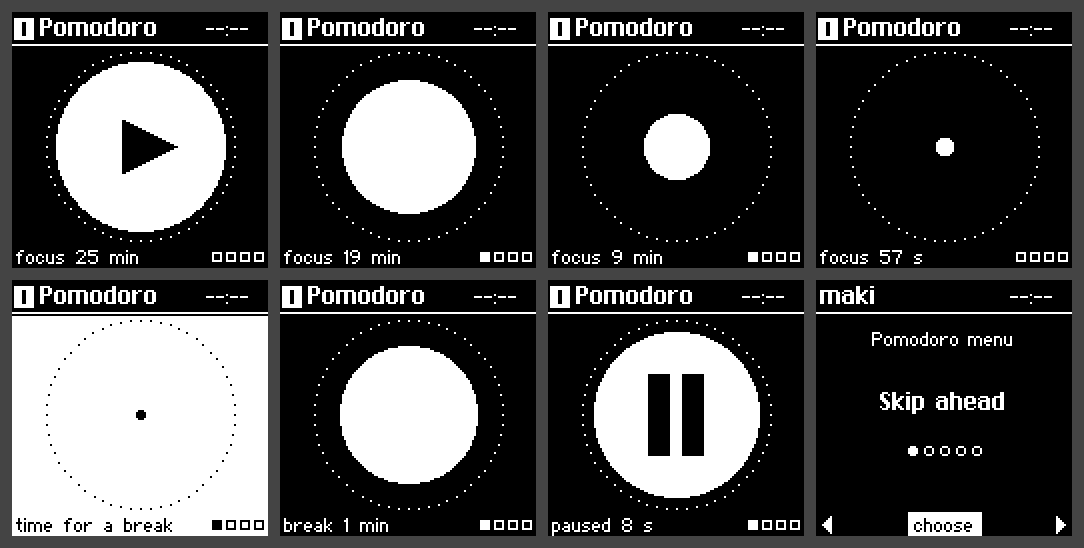
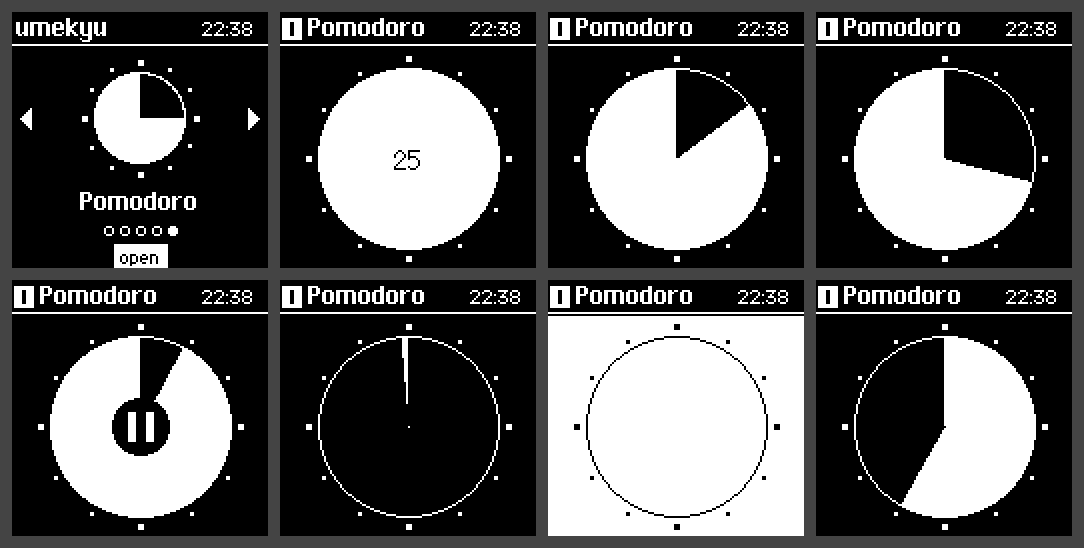
Docs: the pie Pomodoro, names, the clock and resting; no local paths
The README's Pomodoro strip is the pie now (ready, emptying, paused,
flashing, filling back up), and it says each maki names itself and
rests as a clock. ARCHITECTURE.md covers the bar, the name and resting;
DEVELOPMENT.md the clock and screensaver demo flags.

The fork, maki desktop and the store are public: the docs stop calling
them private, and stop pointing at paths on one machine (the setup
steps clone without --reference and install the toolchain with
cargo xtask install-toolkit).

Claude-Session: https://claude.ai/code/session_01KrrQLcb6MfwT6Kc7SresSY

diff --git a/DEVELOPMENT.md b/DEVELOPMENT.md
@@ -7,9 +7,9 @@ on 2026-09-25 on Fedora 44 with Rust 1.96.0.
 
 ```
 maki/
-├── xous-core/          our fork: KaraZajac/maki-firmware (private), branch `maki`         (gitignored clone)
-├── desktop/            the desktop app: KaraZajac/maki-desktop (private)                 (gitignored clone)
-├── apps/               the maki store: KaraZajac/maki-apps (private)                     (gitignored clone)
+├── xous-core/          our fork: KaraZajac/maki-firmware, branch `maki`                   (gitignored clone)
+├── desktop/            the desktop app: KaraZajac/maki-desktop                           (gitignored clone)
+├── apps/               the maki store: KaraZajac/maki-apps                               (gitignored clone)
 ├── tools/baomulator/   zst123/dc34_baomulator, full-system badge emulator            (gitignored clone)
 ├── patches/baomulator/ our changes to the emulator, applied on top of the clone
 ├── scripts/emu.sh      build → emulate → PNG screenshots, in one command
@@ -19,10 +19,9 @@ maki/
 ## One-time setup
 
 ```sh
-# firmware source: our private fork. --reference reuses BAOSEC's objects so it's quick;
-# drop those two flags on a machine without ~/Projects/BAOSEC.
-git clone --reference ~/Projects/BAOSEC/xous-core --dissociate --branch maki \
-    https://github.com/KaraZajac/maki-firmware.git xous-core
+# firmware source: our fork, whole (the build needs upstream's tags). With a clone of
+# xous-core already on the machine, `--reference PATH --dissociate` saves the download.
+git clone --branch maki https://github.com/KaraZajac/maki-firmware.git xous-core
 git -C xous-core remote add upstream https://github.com/betrusted-io/xous-core.git
 git -C xous-core fetch upstream --tags
 
@@ -35,18 +34,19 @@ git clone https://github.com/KaraZajac/maki-desktop.git desktop
 git clone https://github.com/KaraZajac/maki-apps.git apps
 ```
 
-The Xous toolchain (`riscv32imac-unknown-xous-elf`) must match your `rustc` exactly;
-see `~/Projects/BAOSEC/SETUP.md`. The build stamps its version from upstream's git tags
+The Xous toolchain (`riscv32imac-unknown-xous-elf`) must match your `rustc` exactly:
+`cargo xtask install-toolkit`, in `xous-core`, installs the betrusted-io/rust release that
+does (after a `rustup update`, run it again). The build stamps its version from upstream's git tags
 and fails without them, which is why the fork is its own repo rather than a folder in
 this one.
 
 ## The fork
 
-`KaraZajac/maki-firmware` is private, holds upstream's full history, and has two
-branches: `dev`, an untouched mirror of upstream `dev`, and `maki`, where our work
-goes. **GitHub Actions is switched off on it**: upstream's workflows would otherwise run
-on every push (two of them trigger on any branch) and spend private-repo minutes. Turn
-it back on deliberately if we want our own CI.
+`KaraZajac/maki-firmware` holds upstream's full history and has two branches: `dev`, an
+untouched mirror of upstream `dev`, and `maki`, where our work goes. **GitHub Actions is
+switched off on it**: upstream's workflows would otherwise run on every push (two of them
+trigger on any branch), building upstream's targets rather than ours. Turn it back on
+deliberately if we want our own CI.
 
 Syncing with upstream:
 
@@ -139,6 +139,13 @@ compiled in unless set, so rebuild without them before flashing:
   Sensors from the store ("maki store" on the install screen) and Tally sideloaded, then hands
   over the revocation list, which revokes Tally. It logs `demo store ...` lines, among them
   Tally refused when it's sent again (`the maki store revoked it`).
+- `MAKI_DEMO_CLOCK=1`: maki-link sets maki's clock at boot, as maki desktop would (Sunday 27
+  September 2026, 22:38 at UTC-4), and calls it verified: the bar shows 22:38, and the
+  screensaver has a time to show.
+- `MAKI_DEMO_SAVER=1`: the screensaver, which the demos otherwise leave out (the emulator's clock
+  runs far ahead while everything waits, so a minute goes by between scripted presses and each
+  would only wake the screen). With `MAKI_DEMO_CLOCK`, the welcome screen gives way to 22:38 a
+  moment after it appears, and a press brings it back (the launcher logs `resting: the clock`).
 - `MAKI_DEMO_NATIVE=1`: once maki has its PIN and phrase, maki-link installs the SDK's Hello
   Native (Hello built as a native app, from `libs/maki-native/tests/fixtures`). Opened, it runs
   in a process of its own, and the app host logs `running in PID N, confined`.
@@ -344,9 +351,9 @@ rebuilds every app from its source and checks it with `maki reproduce`; `scripts
 CATALOGUE.key DAYS` stamps each app's newest bundle, signs the revocation list again if
 `revocations.txt` changed, and signs a new index, whose version is the hour (UTC, YYYYMMDDHH) so
 it always goes up. Its apps are Pomodoro, Dice, Tally, Sensors and SSH; it's signed with the
-development keys, for ten years, as the development store is. While the repository is private,
-maki desktop reads it with a GitHub token: `MAKI_STORE_TOKEN=$(gh auth token) npm --prefix
-desktop run dev`. Its README says how an app gets in.
+development keys, for ten years, as the development store is. maki desktop reads it straight
+from GitHub; a store in a private repository needs a token, `MAKI_STORE_TOKEN=$(gh auth token)
+npm --prefix desktop run dev`. Its README says how an app gets in.
 
 **The development store.** Until the real store opens, the firmware and maki desktop both start
 from the development store's root: `xous-core/libs/maki-store/dev-store`, made by its `make.sh`

diff --git a/README.md b/README.md
@@ -15,7 +15,9 @@ for your keys.
 > from the maki store ([maki-apps](https://github.com/KaraZajac/maki-apps): reviewed, and rebuilt
 > from their source), after maki shows you what they are and who signed them, and run below maki's
 > own bar. The desktop side is tested against a stand-in for maki that runs maki's own code; the
-> screens below are maki's firmware in the emulator. Nothing runs on a badge yet.
+> screens below are maki's firmware in the emulator. Each maki names itself the first time it
+> starts, after a maki roll (natto, uni, umekyu…); its bar shows the time, and after a minute
+> untouched it rests as a clock the size of its screen. Nothing runs on a badge yet.
 > [ARCHITECTURE.md](./ARCHITECTURE.md) is the plan, [RESEARCH.md](./RESEARCH.md) the background,
 > [DEVELOPMENT.md](./DEVELOPMENT.md) the build loop.
 
@@ -23,7 +25,7 @@ for your keys.
 
 ![maki's app screens in the emulator: the install screen for Dice, a sideloaded example app (its name, version and ID); Dice running below maki's bar, which marks it as sideloaded; its menu, on App info; and App info's pages: the app, where it's from, its developer's key, whether its data is in the backup (with "leave it out"), and Remove](docs/apps.png)
 
-![Pomodoro, a native app, on maki's firmware in the emulator: before a focus, a triangle cut from the whole circle (focus 25 min); the circle shrinking as the focus runs (19 min, 9 min) down to a dot (57 s); the screen flashing when it's over (time for a break); the dot grown back into the circle as the break runs (break 1 min); paused, two bars cut from the circle; and its menu, Skip ahead](docs/pomodoro.png)
+![Pomodoro, a native app, on maki's firmware in the emulator: its icon on the home screen of a maki named umekyu, the time at the top right; ready, a full pie with the minutes to focus (25); the pie emptying clockwise like a clock's hand as the focus runs; paused, two bars in a dark disc at the centre; the last sliver of the focus; the screen flashing when it's over; and the pie filling back up as the break runs](docs/pomodoro.png)
 
 ![maki desktop's Apps page: maki's room for apps as a bar (131 KiB of 2 MiB, room for 29 more apps), a segment each for Pomodoro, SSH and Dice; the three installed, from the maki store, Pomodoro marked native; and the maki store's apps in a grid by category, fetched from KaraZajac/maki-apps](docs/desktop.png)
 
@@ -56,8 +58,9 @@ Planned apps:
   permission, an app can ask you things on maki's own screen, have secrets of its own from your
   phrase, type into your computer, and talk to software on it. Native apps too, machine code
   in a process of its own that maki's kernel confines. An SDK with a simulator and example apps,
-  and the maki store, reviewed and rebuilt from source, in maki desktop: Pomodoro (a focus timer
-  whose circle shrinks while you work), Dice, Tally, Sensors and SSH so far
+  and the maki store, reviewed and rebuilt from source, in maki desktop: Pomodoro (a focus timer,
+  a pie that empties like a clock while you work and fills back up while you rest), Dice, Tally,
+  Sensors and SSH so far
 
 ## Who it's for
 
@@ -79,8 +82,8 @@ This is unaudited firmware from a hobby project.
 
 ## Background
 
-Research on the silicon, the boot chain and the published attacks lives in
-`~/Projects/BAOSEC`, and the brief links the public sources.
+[RESEARCH.md](./RESEARCH.md) is the design brief: the hardware, the security model, the apps
+and the plan, with links to the public sources at its end.
 
 ## License
 

diff --git a/RESEARCH.md b/RESEARCH.md
@@ -6,7 +6,7 @@
 
 Rewritten 2026-09-25, replacing the earlier YubiHSM feasibility brief (its research is
 kept in Appendix A). Hardware facts come from `xous-core` @ `da252db56` and the
-`baochip-1x` RTL in `~/Projects/BAOSEC`. Anything marked *verified* was read in source,
+`baochip-1x` RTL (links at the end). Anything marked *verified* was read in source,
 not recalled. Nothing has run on a badge yet.
 
 ## At a glance
@@ -86,8 +86,7 @@ protecting (§5.2).
 ## 2. The hardware
 
 The DC34 badge is two boards. maki targets the removable **core module** (T6 Torx, two
-screws), which works standalone over USB-C. Background on the silicon, the boot chain and
-the published attacks is in `~/Projects/BAOSEC/RESEARCH.md`.
+screws), which works standalone over USB-C.
 
 | | |
 |---|---|
@@ -349,7 +348,7 @@ Badge B stays sealed throughout, as a reference.
   and make sure every site using it as a passkey has another way in. Passkeys can't be
   exported, by design.
 - **`THE_FLAG_1`:** last chance for this unit, if you want it. Skip it if you don't care.
-- **Build from the known-good tree** (`~/Projects/BAOSEC/xous-core`), pin the commit, and
+- **Build from a known-good tree** (a commit of the fork that has run in the emulator), pin it, and
   flash all three of `loader.uf2`, `xous.uf2` and `swap.uf2` the first time.
 - **The flash:** hold a button while pressing reset to reach "Update mode" (it enumerates as
   `Baochip_1x`), copy the three files, `sync` and unmount (the most common cause of failed
@@ -366,8 +365,8 @@ Badge B stays sealed throughout, as a reference.
    states the constraint without the mechanism.
 3. **Upstream first?** The PKE driver and the `rp.name` fix belong in `xous-core`. The kernel
    changes for §5.2 might too, so it's worth asking bunnie early whether he'd take them.
-4. ~~**Out-of-tree or fork?**~~ Settled: a fork, kept private for now at
-   `KaraZajac/maki-firmware` (see `DEVELOPMENT.md`).
+4. ~~**Out-of-tree or fork?**~~ Settled: a fork, `KaraZajac/maki-firmware` (see
+   `DEVELOPMENT.md`).
 
 ---
 

diff --git a/ARCHITECTURE.md b/ARCHITECTURE.md
@@ -96,6 +96,17 @@ What it looks like:
 - **Keys underneath:** the keyboard service holds a left or right press for 150 ms to see
   whether the other side joins it. If it does, it sends the menu key (`MENU`) and neither
   arrow, so a menu never also moves; if not, the arrow. Left and right don't auto-repeat.
+- **The bar** across the top of maki's own screens: this maki's name on the left, the clock
+  (local time, from maki desktop) on the right. Through an ask too: its time left is the rule
+  under the bar, shrinking, and the bar counts its last ten seconds.
+- **Its name.** The firmware is maki; each badge picks a name of its own the first time it
+  starts, a maki roll (natto, uni, unagi, kappa...), and keeps it through wipes. The bar,
+  maki's menu and About say it, and maki desktop calls the badge by it (HELLO).
+- **Resting.** maki is always plugged in, so there's no power to save; after a minute with
+  nothing pressed, maki's own screens (home, its menu, a page of text, the PIN pad at boot) give
+  way to a clock that fills the screen, the hours over the minutes. It drifts a few pixels each
+  minute, as an OLED needs. Any key brings back what was there and does nothing else; an ask
+  wakes it first; an app in front keeps the screen.
 
 ### Boot PIN
 
